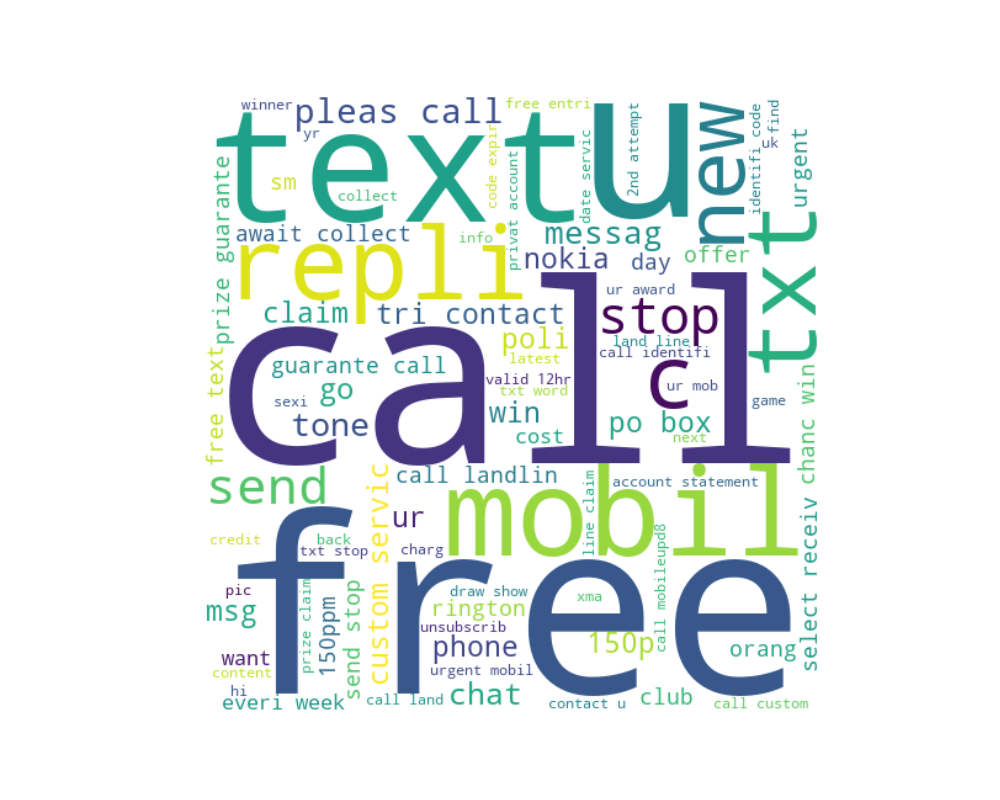
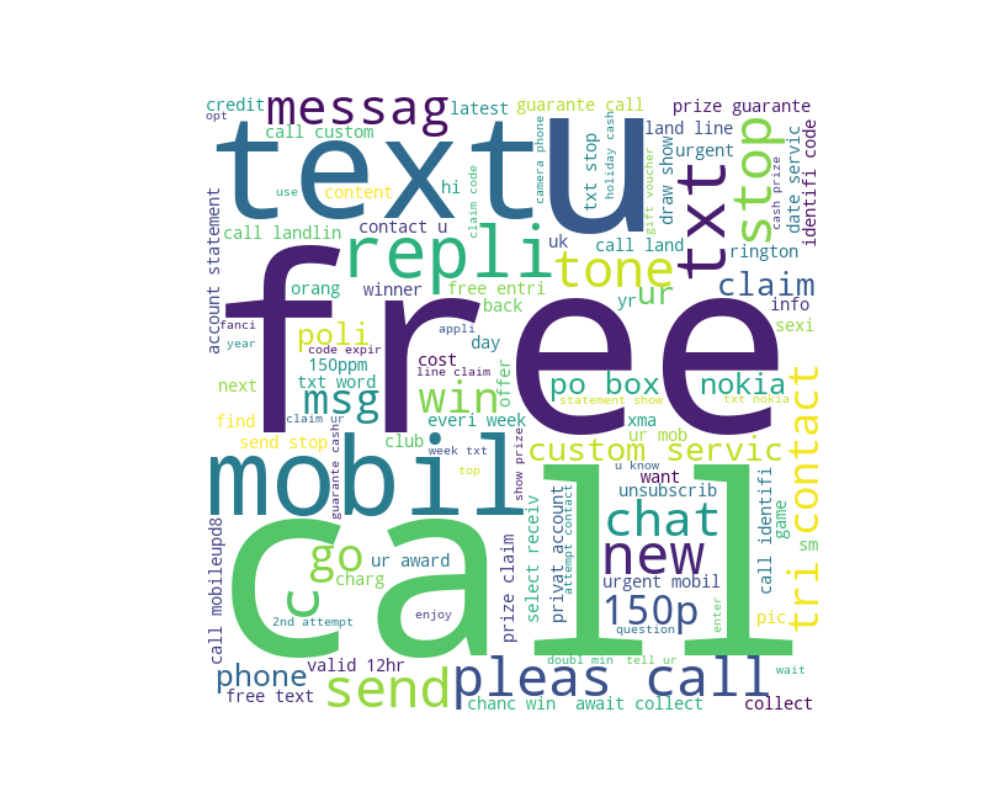
feat: implement text vectorization and model training for spam classification

Changed region(s): [[0.186, 0.125, 0.837, 0.9062]]

diff --git a/1 month python ai ml/eda.py b/1 month python ai ml/eda.py
@@ -206,6 +206,9 @@
 # print(transform_text("I loved the loving text messages you were sending!"))
  
 
+
+
+
 import pandas as pd
 import matplotlib.pyplot as plt
 
@@ -303,13 +306,19 @@ tfidf = TfidfVectorizer (max_features=3000)
 
 from sklearn.feature_extraction.text import CountVectorizer, TfidfVectorizer
 
+
 text = ["I love programming", "Python is great for data science"]
 
 # initialize the CountVectorizer
 cv = CountVectorizer()
 
+# fit and transform the text data
 x = cv.fit_transform(text).toarray()
+
+# display the feature names and the transformed array
 print(cv.get_feature_names_out())
+
+# display the transformed array
 print("Count Vectorizer Output:\n", x)
 
 
@@ -317,12 +326,46 @@ X = tfidf.fit_transform(df["transformed_text"]).toarray()
 X.shape  # Display the shape of the TF-IDF feature matrix
 
 
-
+# ==========================================
+# TEXT VECTORIZATION, SPLIT, & ML TRAINING
+# ==========================================
 
 from sklearn.model_selection import train_test_split
+from sklearn.naive_bayes import MultinomialNB  # <-- Added the model import
+from sklearn.metrics import accuracy_score, confusion_matrix, classification_report, precision_score
 
 # Map the target variable to binary values (ham=0, spam=1)
-y= df["target"].map({"ham": 0, "spam": 1}).values
+y = df["target"].map({"ham": 0, "spam": 1}).values
 
 # Split the dataset into training and testing sets (80% train, 20% test)
-X_train, X_test, y_train, y_test = train_test_split(X , y , test_size=0.2, random_state=42)
+X_train, X_test, y_train, y_test = train_test_split(X, y, test_size=0.2, random_state=42)
+
+print("\n--- Dataset Split Information ---")
+print("Training features shape:", X_train.shape)
+print("Testing features shape:", X_test.shape)
+print("Training labels shape:", y_train.shape)
+print("Testing labels shape:", y_test.shape)
+
+# 1. Initialize the Multinomial Naive Bayes model
+model = MultinomialNB()
+
+# 2. Train the model on the training data
+model.fit(X_train, y_train)
+
+# 3. Predict classifications on the unseen testing data
+y_pred = model.predict(X_test)
+
+# 4. Evaluate the model performance metrics
+print("\n--- Model Performance Evaluation ---")
+print("Accuracy Score: ", accuracy_score(y_test, y_pred))
+print("Precision Score:", precision_score(y_test, y_pred))
+
+print("\nConfusion Matrix Matrix:")
+print(confusion_matrix(y_test, y_pred))
+
+print("\nDetailed Classification Report:")
+print(classification_report(y_test, y_pred))
+
+
+# gnb = GaussianNB()
+
